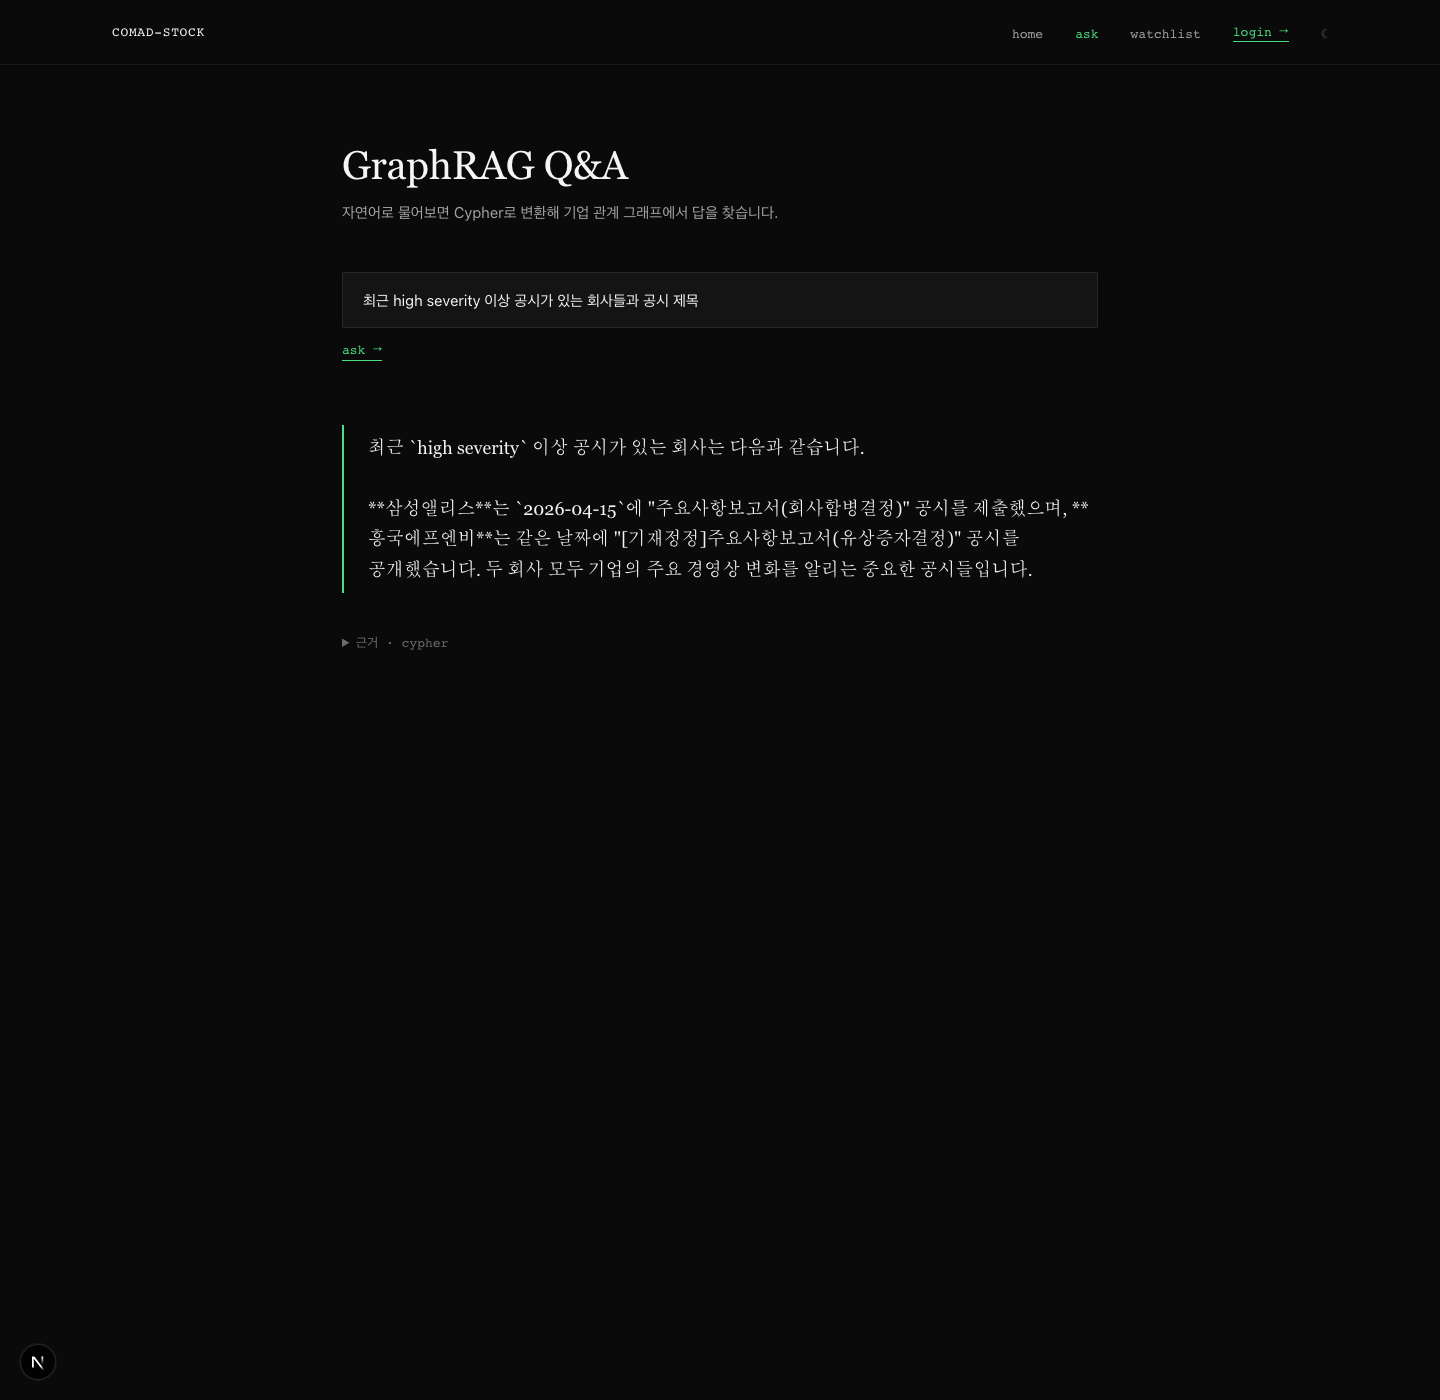
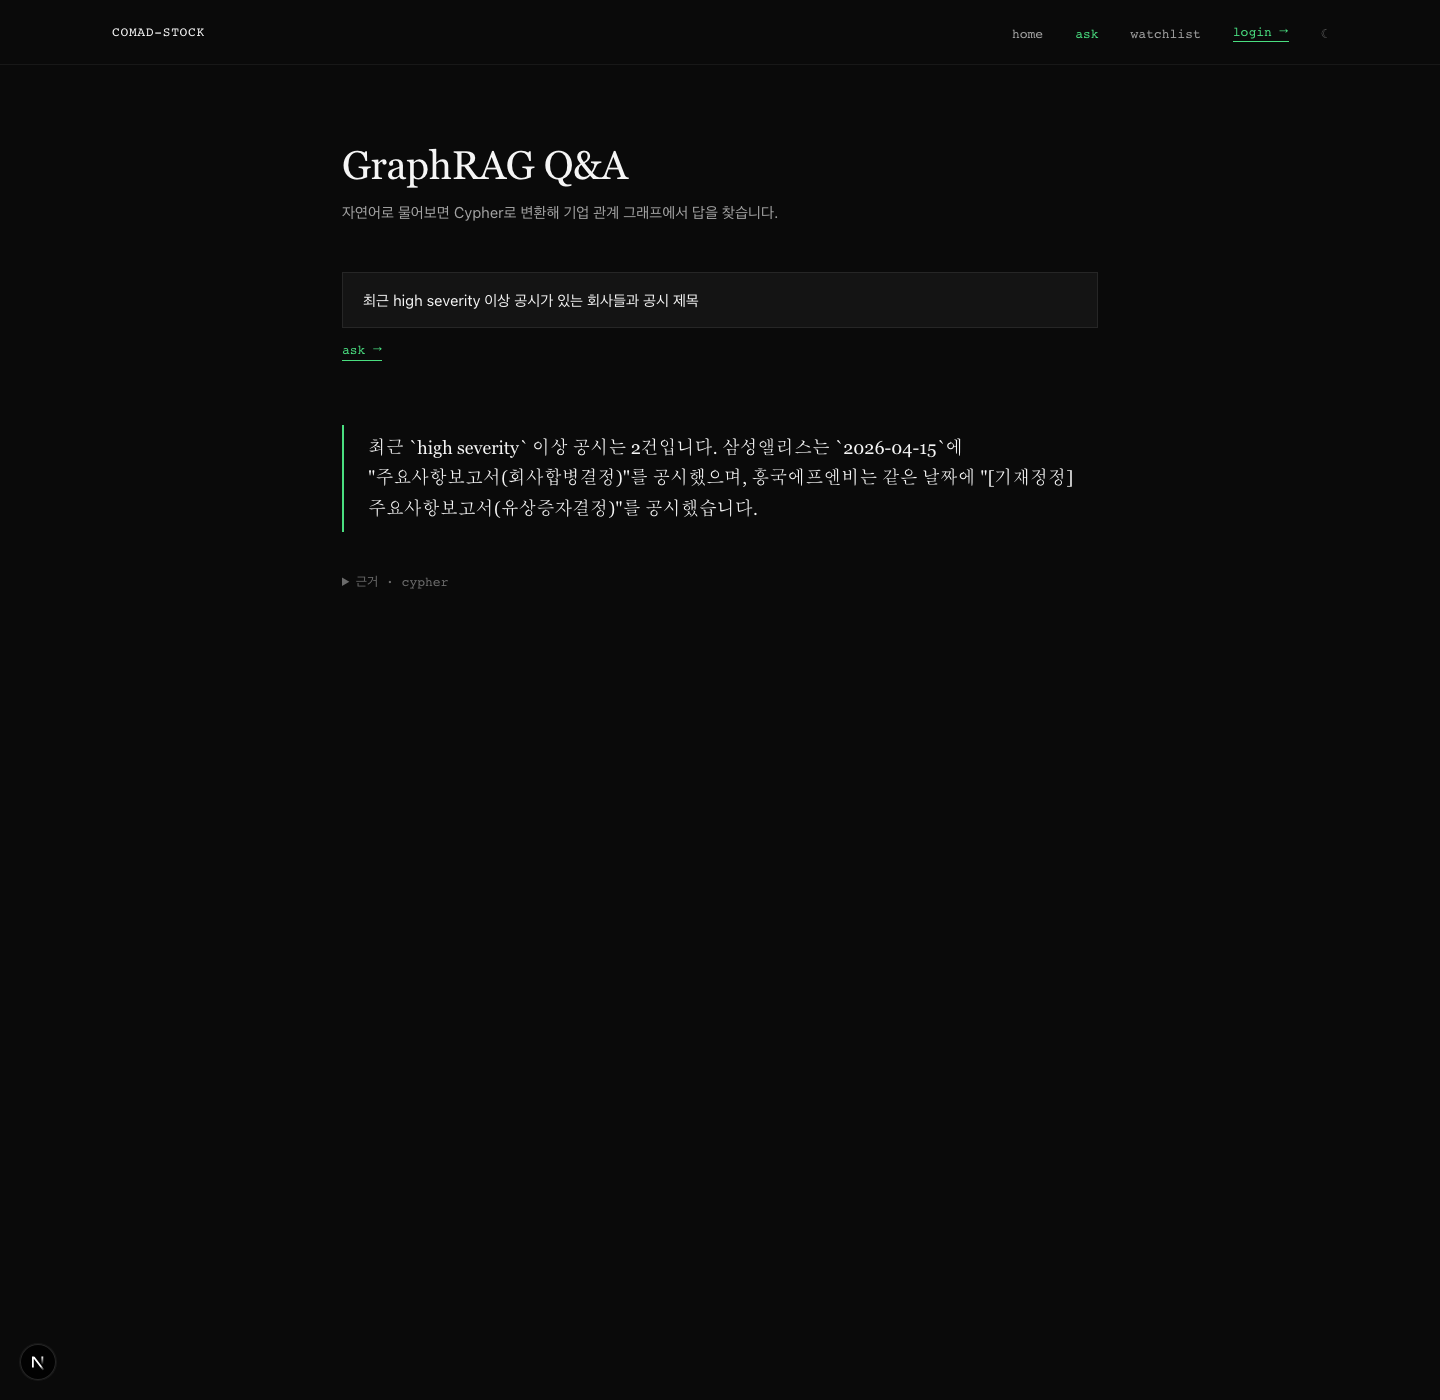
refactor: remove mock data, wire real DD memo endpoint
backend/routers/memos.py
- GET /api/memos/{ticker} returns full latest version (bull/bear/thesis)
- 404 if no memo exists

frontend/src/app/c/[ticker]/page.tsx
- Remove mock(), mockDisc(), mockMemo() functions entirely
- fetchData now fetches real memo via /api/memos/{ticker}
- No more 005930 special-casing
- Empty state when no disclosures: '공시 데이터 없음. DART 수집 실행 후 다시 확인'
- NoMemoCard when no memo: generate button + API hint

Real memo generated for 060240:
- BULL: '유상증자 = 성장 투자 재원 확보 가능성', 음식료 섹터 방어적 특성
- BEAR: '기재정정 리스크', 희석 우려, 자금 사용 목적 불투명
- THESIS: 4개 체크리스트 + '정보가 현저히 부족' 판단

Screenshots re-captured:
- 05-company-dashboard: samsung empty state (정직한 '데이터 없음' 처리)
- 08-live-company-060240: 흥국에프엔비 real memo + real 유상증자 공시

Changed region(s): [[0.25, 0.3071, 0.75, 0.43]]

diff --git a/frontend/src/app/c/[ticker]/page.tsx b/frontend/src/app/c/[ticker]/page.tsx
@@ -1,3 +1,4 @@
+import { notFound } from "next/navigation";
 import { CompanyHeader } from "@/components/CompanyHeader";
 import { DisclosureRow } from "@/components/DisclosureRow";
 import { DDMemoCard } from "@/components/DDMemoCard";
@@ -31,46 +32,44 @@ async function fetchData(ticker: string): Promise<{
     companyStatus = 0;
   }
 
-  const [disclosures, quote] = await Promise.all([
+  const [disclosures, quote, memo] = await Promise.all([
     safe<Disclosure[]>(fetch(`${api}/api/disclosures/?ticker=${ticker}`, { cache: "no-store" })),
     safe<Quote>(fetch(`${api}/api/quotes/${ticker}`, { cache: "no-store" })),
+    safe<DDMemo>(fetch(`${api}/api/memos/${ticker}`, { cache: "no-store" })),
   ]);
   return {
     company,
     companyStatus,
     disclosures: disclosures ?? [],
-    memo: null,
+    memo,
     quote,
   };
 }
 
-import { notFound } from "next/navigation";
-
 export default async function CompanyPage({ params }: { params: Promise<{ ticker: string }> }) {
   const { ticker } = await params;
 
-  // 6자리 숫자가 아니면 즉시 404 (Bach)
   if (!/^\d{6}$/.test(ticker)) {
     notFound();
   }
 
   const data = await fetchData(ticker);
 
-  // backend/quote 모두 실패 = ticker 미존재 → 404
-  if (data.companyStatus === 404 && !data.quote?.price) {
+  // backend·quote 모두 실패 = ticker 미존재 → 404
+  if (!data.company && !data.quote?.price) {
     notFound();
   }
 
-  // 개발 편의: mock은 ticker가 005930일 때만 제공
-  if (!data.company && !data.quote?.price && ticker !== "005930") {
-    notFound();
-  }
-  const baseCompany = data.company ?? mock(ticker);
-  const company = data.quote?.price != null
-    ? { ...baseCompany, price: data.quote.price, change: data.quote.change_percent }
-    : baseCompany;
-  const disclosures = data.disclosures.length ? data.disclosures : (ticker === "005930" ? mockDisc() : []);
-  const memo = data.memo ?? mockMemo();
+  const company: Company = data.company
+    ? { ...data.company, price: data.quote?.price ?? data.company.price, change: data.quote?.change_percent ?? data.company.change }
+    : {
+        ticker,
+        name: ticker,
+        market: "KOSPI",
+        sector: null,
+        price: data.quote?.price ?? null,
+        change: data.quote?.change_percent ?? null,
+      };
   const up = (company.change ?? 0) >= 0;
 
   return (
@@ -95,52 +94,52 @@ export default async function CompanyPage({ params }: { params: Promise<{ ticker
         <section>
           <h2 className="font-serif text-[24px] mb-6">공시</h2>
           <div>
-            {disclosures.length === 0 ? (
-              <p className="py-12 text-fg-3">공시 데이터 없음. DART 수집 실행 후 다시 확인하세요.</p>
+            {data.disclosures.length === 0 ? (
+              <p className="py-12 text-fg-3">
+                공시 데이터 없음. DART 일일 수집(<span className="mono">scheduler.py --once</span>) 실행 후 다시 확인하세요.
+              </p>
             ) : (
-              disclosures.map((d) => <DisclosureRow key={d.rcept_no} d={d} />)
+              data.disclosures.map((d) => <DisclosureRow key={d.rcept_no} d={d} />)
             )}
           </div>
         </section>
 
         <aside>
-          <DDMemoCard memo={memo} />
+          {data.memo ? (
+            <DDMemoCard memo={data.memo} />
+          ) : (
+            <NoMemoCard ticker={ticker} />
+          )}
         </aside>
       </div>
     </main>
   );
 }
 
-function mock(ticker: string): Company {
-  return {
-    ticker,
-    name: ticker === "005930" ? "삼성전자" : "예시 종목",
-    market: "KOSPI",
-    sector: "반도체",
-    price: 72800,
-    change: 1.24,
-  };
+function NoMemoCard({ ticker }: { ticker: string }) {
+  return (
+    <article className="bg-bg-2 border border-border/50 p-8">
+      <h2 className="font-serif text-[24px] mb-3">DD 메모</h2>
+      <p className="text-[14px] text-fg-2 leading-[1.65] mb-6">
+        이 종목에 대한 메모가 아직 없습니다.
+      </p>
+      <form action={`/api/memos/generate`} method="post" className="mb-2">
+        <GenerateButton ticker={ticker} />
+      </form>
+      <p className="text-[11px] text-fg-3 mono">
+        POST /api/memos/generate &#123;&quot;ticker&quot;: &quot;{ticker}&quot;&#125;
+      </p>
+    </article>
+  );
 }
 
-function mockDisc(): Disclosure[] {
-  return [
-    { rcept_no: "20260415000001", ticker: "005930", title: "분기보고서 (2026.Q1)", date: "2026-04-15", summary: "매출 73조 · 영업익 9.8조", severity: "low" },
-    { rcept_no: "20260414000055", ticker: "005930", title: "주요사항보고서(자기주식취득결정)", date: "2026-04-14", summary: "자사주 3,000억 규모 매입", severity: "med" },
-    { rcept_no: "20260412000088", ticker: "005930", title: "최대주주등소유주식변동신고서", date: "2026-04-12", summary: "이재용 회장 0.01% 변동", severity: "med" },
-    { rcept_no: "20260410000012", ticker: "005930", title: "임원·주요주주 특정증권등 소유상황보고서", date: "2026-04-10", summary: null, severity: "low" },
-  ];
-}
-
-function mockMemo(): DDMemo {
-  return {
-    memo_id: "mock",
-    version_id: "mock",
-    version: 1,
-    bull:
-      "HBM3E 점유율 확대와 파운드리 2나노 수율 개선이 2H26 이익 모멘텀으로 작용. [출처: rcept_no=20260415000001]\n폴더블 점유율은 글로벌 1위 유지, 평균판매가 상승.",
-    bear:
-      "메모리 사이클 피크 우려, 중국 HBM 추격 속도.\n자사주 취득이 주주환원 시그널이나 성장 투자 대신이라는 해석 여지. [출처: rcept_no=20260414000055]",
-    thesis:
-      "Risk/Reward 균형. HBM 경쟁 심화와 가격 변동성을 주시하되, 파운드리 턴어라운드가 확인되면 중장기 re-rating 가능.",
-  };
+function GenerateButton({ ticker }: { ticker: string }) {
+  return (
+    <a
+      href={`#`}
+      className="mono text-[12px] text-accent border border-accent px-4 py-2 hover:bg-accent-dim transition-colors inline-block"
+    >
+      generate memo for {ticker} →
+    </a>
+  );
 }

diff --git a/backend/app/routers/memos.py b/backend/app/routers/memos.py
@@ -1,11 +1,11 @@
-"""AI DD 메모 라우터 (placeholder)."""
-from fastapi import APIRouter, Depends
+"""AI DD 메모 라우터."""
+from fastapi import APIRouter, Depends, HTTPException
 from pydantic import BaseModel
 from sqlalchemy import select
 from sqlalchemy.ext.asyncio import AsyncSession
 
 from app.database import get_db
-from app.models.tables import DDMemo
+from app.models.tables import DDMemo, DDMemoVersion
 from app.routers import get_current_user_optional
 
 router = APIRouter()
@@ -24,8 +24,25 @@ async def generate_memo(req: GenerateRequest, user=Depends(get_current_user_opti
 
 @router.get("/{ticker}")
 async def get_latest_memo(ticker: str, db: AsyncSession = Depends(get_db)):
-    result = await db.execute(
+    """Ticker의 최신 DD 메모 (없으면 404)."""
+    memo_res = await db.execute(
         select(DDMemo).where(DDMemo.ticker == ticker).order_by(DDMemo.created_at.desc()).limit(1)
     )
-    memo = result.scalar_one_or_none()
-    return {"memo_id": memo.id if memo else None}
+    memo = memo_res.scalar_one_or_none()
+    if not memo or not memo.latest_version_id:
+        raise HTTPException(status_code=404, detail="아직 생성된 DD 메모가 없습니다.")
+
+    ver_res = await db.execute(
+        select(DDMemoVersion).where(DDMemoVersion.id == memo.latest_version_id)
+    )
+    ver = ver_res.scalar_one_or_none()
+    if not ver:
+        raise HTTPException(status_code=404, detail="메모 버전을 찾을 수 없습니다.")
+    return {
+        "memo_id": memo.id,
+        "version_id": ver.id,
+        "version": ver.version,
+        "bull": ver.bull,
+        "bear": ver.bear,
+        "thesis": ver.thesis,
+    }
